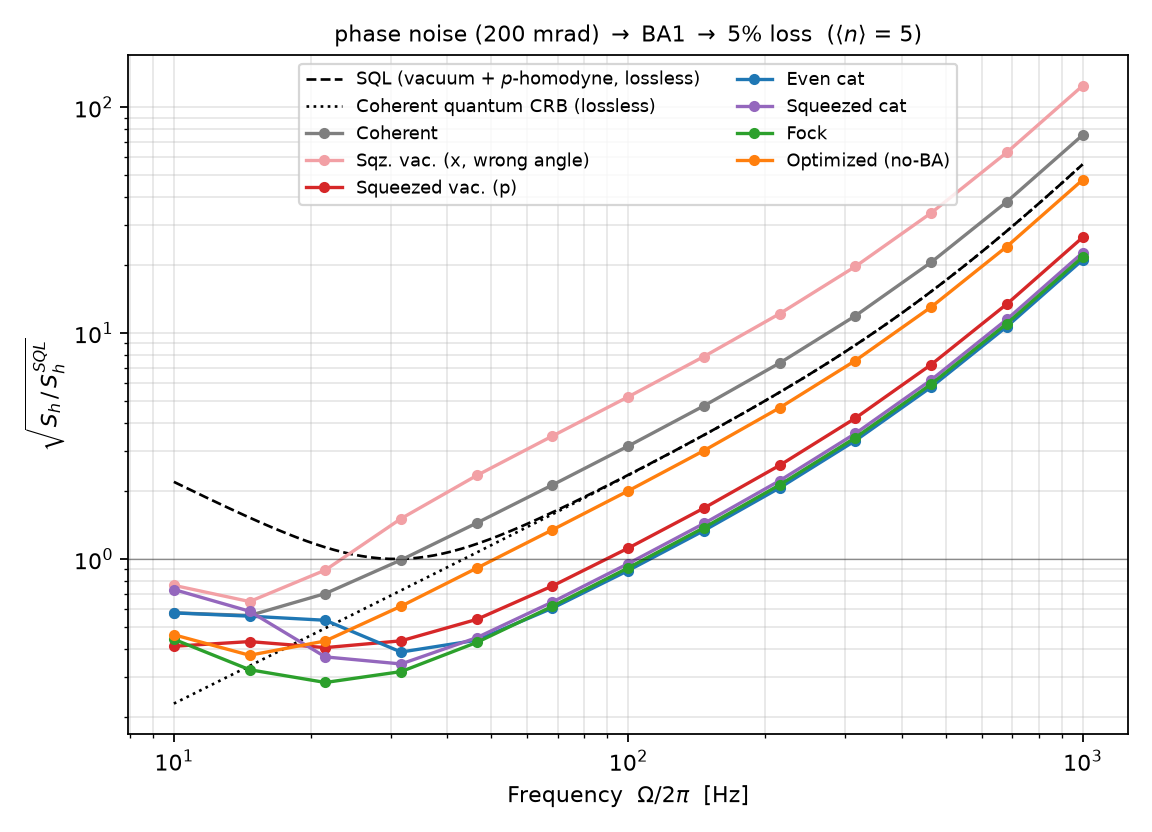
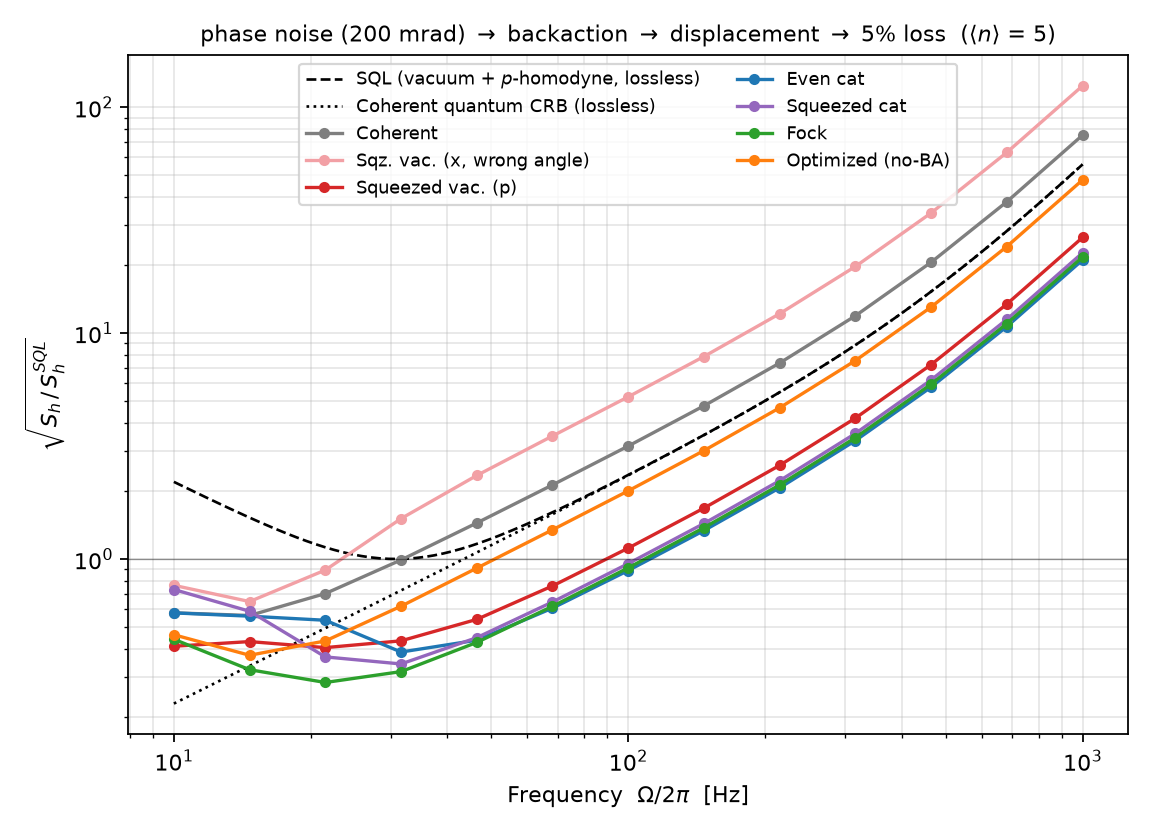
Retitle paper-point figures: backaction -> displacement wording
Claude-Session: https://claude.ai/code/session_01JXQRLdXHhSAuVvDpQdaiAD

Changed region(s): [[0.1562, 0.0312, 0.9062, 0.0625]]

diff --git a/2026-09-07/quantum_sensing/studies/sweep_ba1_frequency.py b/2026-09-07/quantum_sensing/studies/sweep_ba1_frequency.py
@@ -269,7 +269,8 @@ def plot(df_freq, exps, path):
                  "detection loss "
                  f"($\\langle n\\rangle$ = {N_TARGET:g}, $\\eta$ = {ETA_LOSS})")
     elif LOSS_CONFIG == "paper_pn_ba1":
-        title = ("phase noise (200 mrad) $\\to$ BA1 $\\to$ 5% loss "
+        title = ("phase noise (200 mrad) $\\to$ backaction $\\to$ "
+                 "displacement $\\to$ 5% loss "
                  f"($\\langle n\\rangle$ = {N_TARGET:g})")
     else:
         title = ("BA3: $\\eta_{in}$=0.95 $\\to$ [signal+shear, "

diff --git a/2026-09-07/quantum_sensing/studies/convert_to_strain.py b/2026-09-07/quantum_sensing/studies/convert_to_strain.py
@@ -64,7 +64,8 @@ TITLES = {
     "_ba2_injection": "BA2: injection loss ($\\eta$=0.9) $\\to$ signal $\\to$ shear",
     "_pn_ba1_detection": ("phase noise ($\\phi_{rms}$=0.1) $\\to$ BA1 $\\to$ "
                           "detection loss ($\\eta$=0.9)"),
-    "_paper_pn_ba1": ("phase noise (200 mrad) $\\to$ BA1 $\\to$ 5% loss"),
+    "_paper_pn_ba1": ("phase noise (200 mrad) $\\to$ backaction $\\to$ "
+                      "displacement $\\to$ 5% loss"),
 }
 
 
